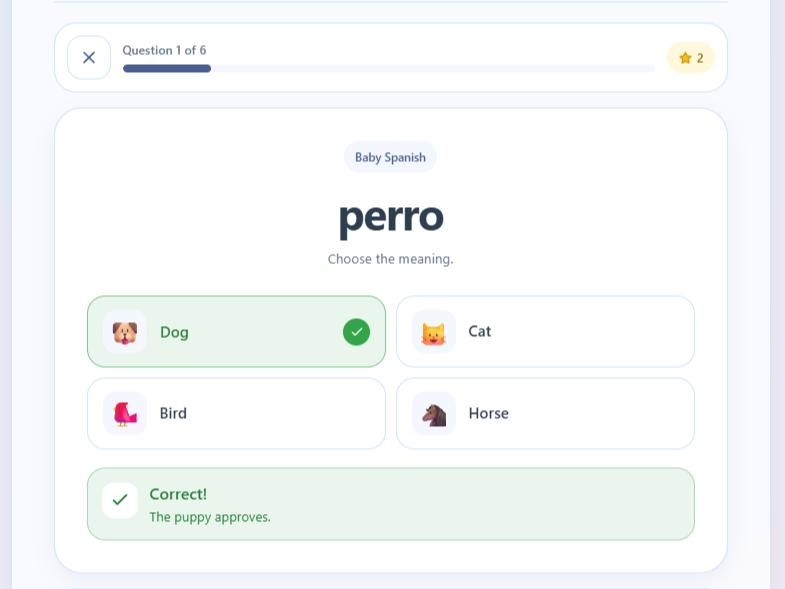
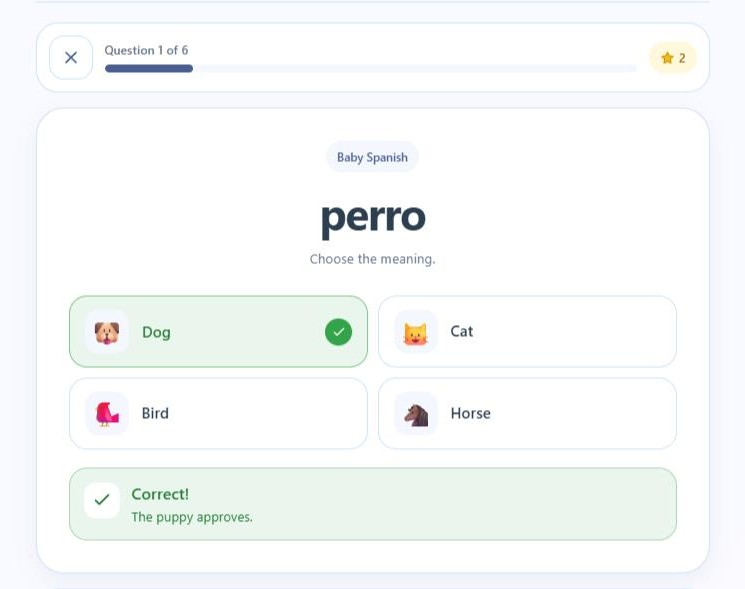
Refactor code structure for improved readability and maintainability

diff --git a/styles.css b/styles.css
@@ -99,6 +99,7 @@ header {
 }
 
 .nav-links {
+    flex-shrink: 0;
     display: flex;
     align-items: center;
     gap: 34px;
@@ -127,11 +128,23 @@ header {
 
 .menu-button {
     display: none;
+    width: 42px;
+    height: 42px;
+    padding: 9px 7px;
     border: none;
     background: none;
-    font-size: 1.7rem;
     color: var(--text-dark);
     cursor: pointer;
+}
+
+.menu-button-line {
+    display: block;
+    width: 28px;
+    height: 2px;
+    margin: 5px auto;
+    border-radius: 999px;
+    background-color: currentColor;
+    transition: transform 0.2s ease, opacity 0.2s ease;
 }
 
 /* General sections */
@@ -309,6 +322,11 @@ header {
     color: var(--navy);
     font-size: 1.1rem;
     cursor: pointer;
+}
+
+.carousel-controls button:disabled {
+    opacity: 0.4;
+    cursor: not-allowed;
 }
 
 /* Projects */
@@ -565,12 +583,58 @@ header {
 /* Tablet */
 
 @media (max-width: 950px) {
-    .nav-links {
+    header {
+        flex-wrap: wrap;
+    }
+
+    hr {
         display: none;
+    }
+
+    .brand {
+        order: 1;
+    }
+
+    .nav-links {
+        order: 3;
+        flex-basis: 100%;
+        flex-direction: column;
+        gap: 0;
+        max-height: 0;
+        overflow: hidden;
+        opacity: 0;
+        pointer-events: none;
+        transform: translateY(-8px);
+        transition: max-height 0.25s ease, opacity 0.2s ease, transform 0.25s ease;
     }
 
     .menu-button {
         display: block;
+        order: 2;
+        margin-left: auto;
+    }
+
+    .nav-links a {
+        padding: 10px 0;
+    }
+
+    header[data-menu-open="true"] .nav-links {
+        max-height: 320px;
+        opacity: 1;
+        pointer-events: auto;
+        transform: translateY(0);
+    }
+
+    header[data-menu-open="true"] .menu-button-line:nth-child(1) {
+        transform: translateY(7px) rotate(45deg);
+    }
+
+    header[data-menu-open="true"] .menu-button-line:nth-child(2) {
+        opacity: 0;
+    }
+
+    header[data-menu-open="true"] .menu-button-line:nth-child(3) {
+        transform: translateY(-7px) rotate(-45deg);
     }
 
     .hero {
@@ -583,7 +647,7 @@ header {
         justify-content: flex-start;
     }
 
-    .project-grid {
+    #project-grid {
         grid-template-columns: 1fr;
     }
 
@@ -655,10 +719,6 @@ header {
         align-items: flex-start;
     }
 
-    .carousel-controls {
-        display: none;
-    }
-
     .filter-pills {
         overflow-x: auto;
         flex-wrap: nowrap;
@@ -671,6 +731,11 @@ header {
 
     .project-card {
         display: block;
+    }
+
+    .project-card img {
+        height: auto;
+        aspect-ratio: 16 / 10;
     }
 
     .skills-grid {

diff --git a/script.js b/script.js
@@ -1,11 +1,11 @@
 const projects = [
     {
         type: "Web App", 
-        title: "Better Future Academy", 
+        title: "BFA Web App", 
         description: "Education platform for English learners, mentors, scheduling, and practice tools",
         tags: ["React", "Node.js", "MySQL", "Education"],
-        link: "https://www.betterfutureacad.com/",
-        imgsrc: "images/bfa-project.jpg",
+        link: "https://beta.betterfutureacad.com",
+        imgsrc: "images/bfa-app.jpg",
         imgalt: "Better Future Academy"
     },
     {
@@ -34,7 +34,17 @@ const projects = [
         link: "#",
         imgsrc: "images/game-project.jpg",
         imgalt: "Game example"
-    }
+    },
+
+        {
+        type: "Landing Page", 
+        title: "Better Future Academy", 
+        description: "Education platform for English learners, mentors, scheduling, and practice tools",
+        tags: ["JavaScript", "HTML", "CSS", "Education"],
+        link: "https://www.betterfutureacad.com/",
+        imgsrc: "images/bfa-project.jpg",
+        imgalt: "Better Future Academy"
+    },
 ]
 
 
@@ -42,14 +52,54 @@ let projectsList = document.querySelector('#project-grid');
 
 // CAROUSEL ELEMENTS AND VARIABLES
 let currentIndex = 0;  // Where we start
-const itemsPerPage = 3; // How many projects are shown at once
+const carouselBreakpoint = window.matchMedia('(max-width: 950px)');
+let itemsPerPage = getItemsPerPage();
 const nextButton = document.querySelector("#next-btn");
 const previousButton = document.querySelector("#previous-btn");
+
+function getItemsPerPage() {
+    return carouselBreakpoint.matches ? 1 : 3;
+}
+
+function updateCarouselState() {
+    const maxIndex = Math.max(currentProjectsShown.length - itemsPerPage, 0);
+
+    currentIndex = Math.min(currentIndex, maxIndex);
+    previousButton.disabled = currentIndex === 0;
+    nextButton.disabled = currentIndex === maxIndex;
+}
+
+// Mobile navigation
+const header = document.querySelector('header');
+const menuButton = document.querySelector('.menu-button');
+const navigationLinks = document.querySelectorAll('.nav-links a');
+
+function setMenuOpen(isOpen) {
+    header.dataset.menuOpen = isOpen;
+    menuButton.setAttribute('aria-expanded', String(isOpen));
+    menuButton.setAttribute('aria-label', isOpen ? 'Close menu' : 'Open menu');
+}
+
+menuButton.addEventListener('click', () => {
+    setMenuOpen(header.dataset.menuOpen !== 'true');
+});
+
+navigationLinks.forEach(link => {
+    link.addEventListener('click', () => setMenuOpen(false));
+});
+
+document.addEventListener('keydown', event => {
+    if (event.key === 'Escape' && header.dataset.menuOpen === 'true') {
+        setMenuOpen(false);
+        menuButton.focus();
+    }
+});
 
 let currentProjectsShown = projects;
 
 function displayProjects() {
-    
+    updateCarouselState();
+
     // Any projects currently on display must be removed so that we can use the filters to display only the selected projects later.
     projectsList.innerHTML = "";
 
@@ -120,6 +170,12 @@ previousButton.addEventListener('click', () => {
         displayProjects(); // Re-render with the new index
     }
 });
+
+carouselBreakpoint.addEventListener('change', () => {
+    itemsPerPage = getItemsPerPage();
+    displayProjects();
+});
+
 // Display all projects for the first time
 displayProjects();
 

diff --git a/index.html b/index.html
@@ -18,7 +18,7 @@
             </div>
         </a>
 
-        <nav class="nav-links">
+        <nav class="nav-links" id="site-navigation">
             <a href="#">Home</a>
             <a href="#projects">Projects</a>
             <a href="#about">About</a>
@@ -26,13 +26,17 @@
             <a href="#contact">Contact</a>
         </nav>
 
-        <button class="menu-button" aria-label="Open menu">☰</button>
+        <button class="menu-button" type="button" aria-label="Open menu" aria-expanded="false" aria-controls="site-navigation">
+            <span class="menu-button-line"></span>
+            <span class="menu-button-line"></span>
+            <span class="menu-button-line"></span>
+        </button>
     </header>
 
     <main>
         <section id="home" class="hero section">
             <div class="hero-text">
-                <p class="eyebrow">Hi, I'm</p>
+                <p class="eyebrow">Hi!, I'm</p>
                 <h1>Samuel Pereira</h1>
                 <!-- <h2>Web & Software Developer</h2> -->
 
@@ -74,10 +78,10 @@
                 <button class="pill active" data-filter="all">All</button>
                 <button class="pill" data-filter="Landing Page">Landing Page</button>
                 <button class="pill" data-filter="Web App">Web App</button>
-                <button class="pill" data-filter="Education">Education</button>
-                <button class="pill" data-filter="React">React</button>
-                <button class="pill" data-filter="Node.js">Node.js</button>
-                <button class="pill" data-filter="JS">JavaScript</button>
+                <!-- <button class="pill" data-filter="Education">Education</button> -->
+                <!-- <button class="pill" data-filter="React">React</button> -->
+                <!-- <button class="pill" data-filter="Node.js">Node.js</button> -->
+                <!-- <button class="pill" data-filter="JS">JavaScript</button> -->
                 <button class="pill" data-filter="Game">Games</button>
             </div>
 
@@ -164,7 +168,7 @@
 
             <div class="skill-card">
             <img src="images/icons/c.png" alt="c# icon" />
-            <p>VideoGames</p>
+            <p>OOP</p>
             </div>
         </div>
         </section>